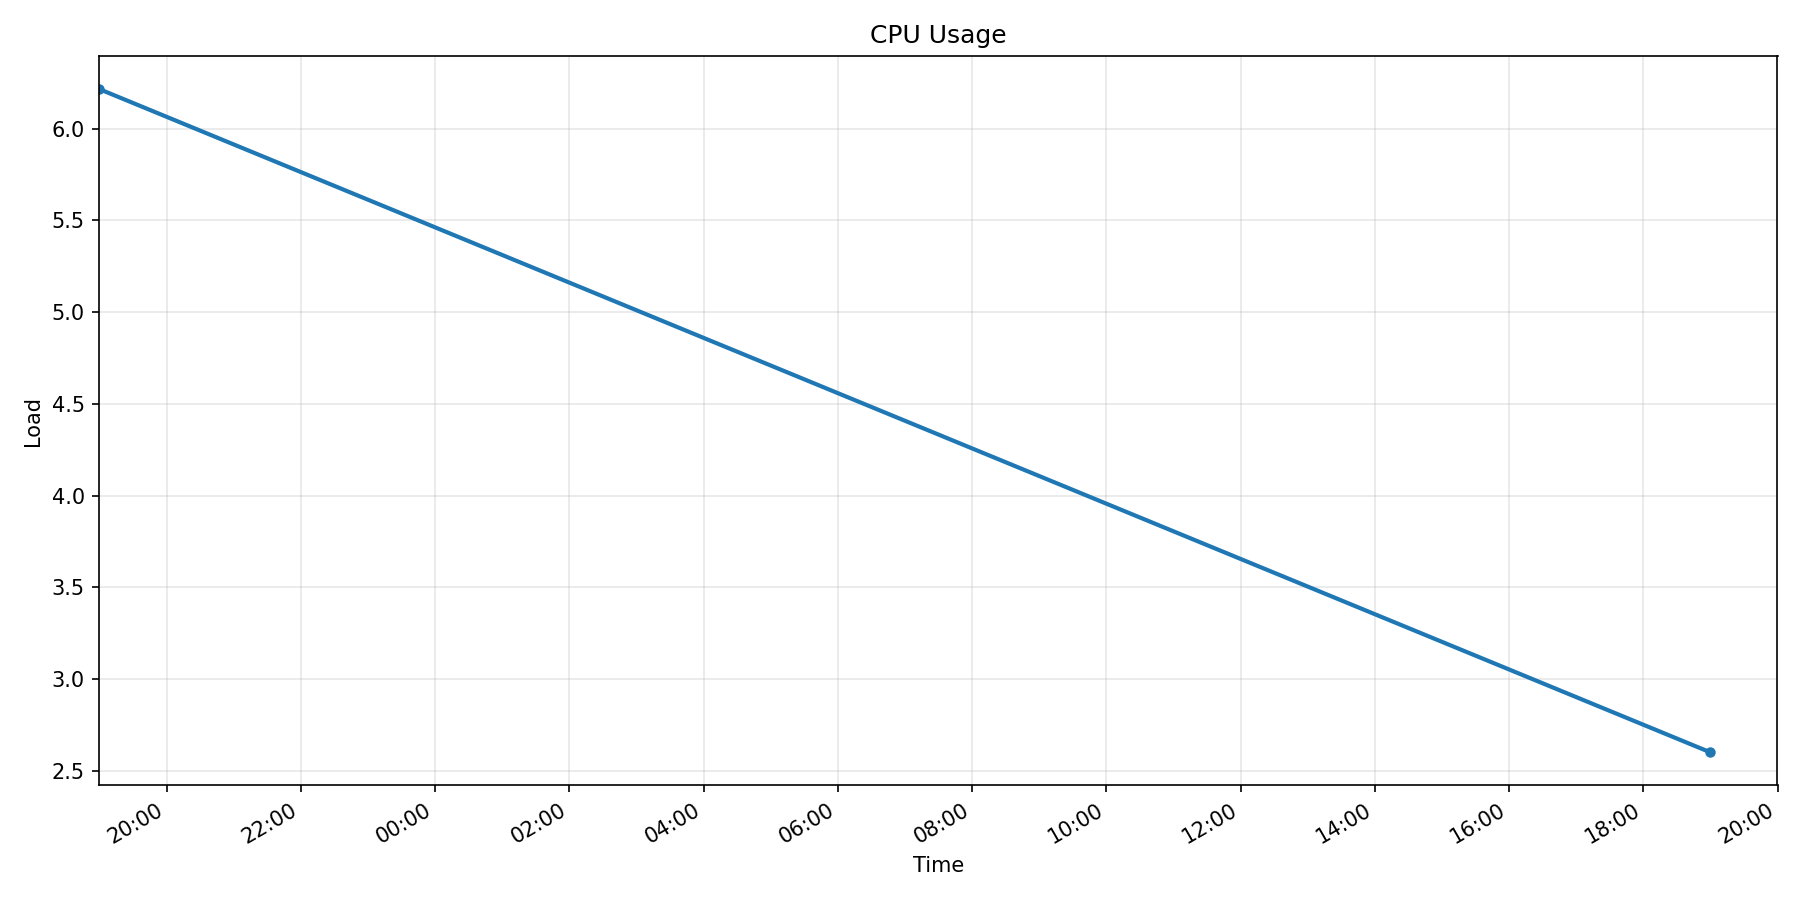
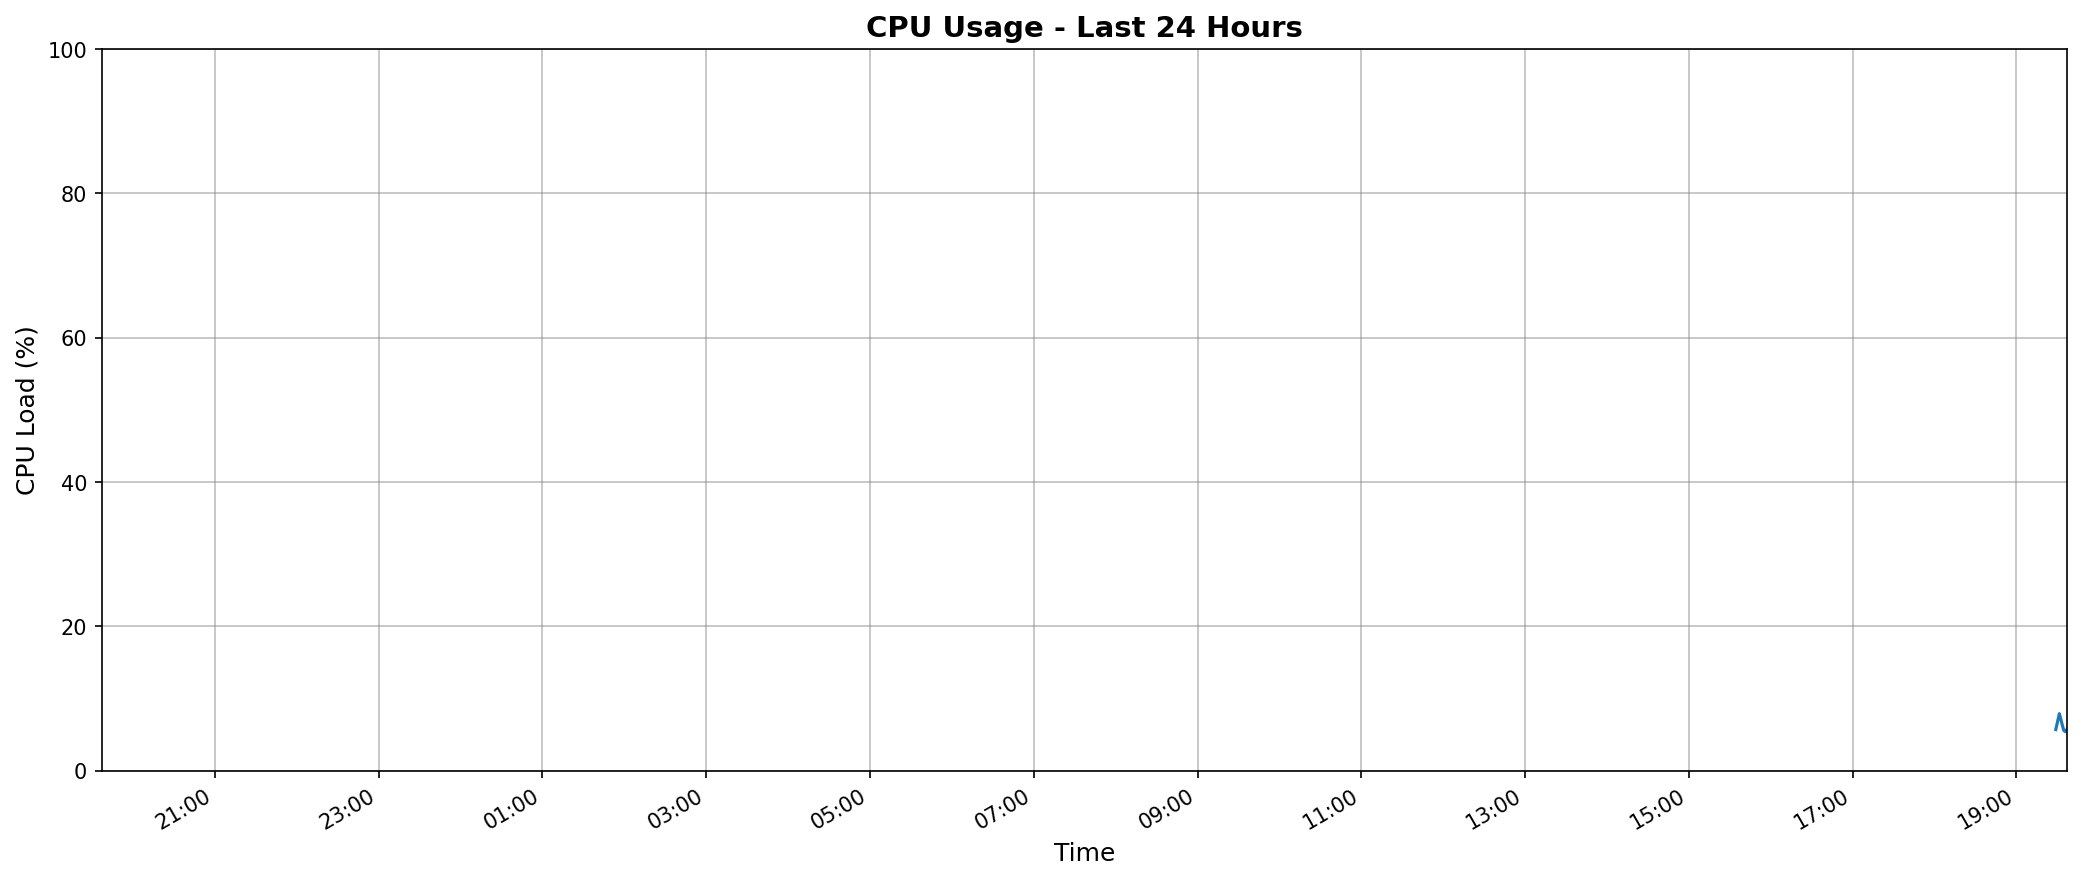
Graph code updated

diff --git a/app/graph/graph_24hr.py b/app/graph/graph_24hr.py
@@ -2,58 +2,49 @@ import matplotlib.pyplot as plt
 import matplotlib.dates as mdates
 import datetime
 import os
-from collections import defaultdict
 
 
 def graph_cpu_load(db_report):
-    raw_time = []
-    raw_load = []
-
-    for db_data in db_report:
-        raw_time.append(datetime.datetime.fromtimestamp(db_data['timestamp']))
-        raw_load.append(db_data['cpu_prcnt'])
-
-    interval_hours = 2
-    interval_seconds = interval_hours * 3600
-    buckets = defaultdict(list)
-
-    for time_point, load_point in zip(raw_time, raw_load):
-        timestamp = time_point.timestamp()
-        bucket_key = int(timestamp // interval_seconds) * interval_seconds
-        buckets[bucket_key].append(load_point)
-
-    averaged_time = []
-    averaged_load = []
-
-    for bucket_timestamp in sorted(buckets.keys()):
-        averaged_time.append(datetime.datetime.fromtimestamp(bucket_timestamp))
-        averaged_load.append(sum(buckets[bucket_timestamp]) / len(buckets[bucket_timestamp]))
-
-    plt.figure(figsize=(12, 6))
-    plt.title("CPU Usage")
-    plt.xlabel("Time")
-    plt.ylabel("Load")
-    plt.plot(averaged_time, averaged_load, linewidth=2, marker='o', markersize=4)
-
     now = datetime.datetime.now()
-    now_rounded = now.replace(minute=0, second=0, microsecond=0) + datetime.timedelta(hours=1)
-    twenty_four_hours_ago = (now - datetime.timedelta(hours=24)).replace(minute=0, second=0, microsecond=0)
+    window_start = now - datetime.timedelta(hours=24)
 
-    plt.xlim(twenty_four_hours_ago, now_rounded)
+    times = []
+    loads = []
 
-    plt.gca().xaxis.set_major_locator(mdates.HourLocator(interval=2))
-    plt.gca().xaxis.set_major_formatter(mdates.DateFormatter('%H:%M'))
+    for entry in db_report:
+        t = datetime.datetime.fromtimestamp(entry['timestamp'])
+        if t >= window_start:
+            times.append(t)
+            loads.append(entry['cpu_prcnt'])
+
+    if not times:
+        times = [window_start, now]
+        loads = [0, 0]
+
+    times, loads = zip(*sorted(zip(times, loads)))
+
+    plt.figure(figsize=(14, 6))
+    plt.title("CPU Usage - Last 24 Hours", fontsize=14, fontweight='bold')
+    plt.xlabel("Time", fontsize=12)
+    plt.ylabel("CPU Load (%)", fontsize=12)
+
+    plt.plot(times, loads, linewidth=1.5)
+
+    plt.grid(True, alpha=0.5, color='gray')
+    plt.ylim(0, 100)
+
+    ax = plt.gca()
+    ax.set_xlim(window_start, now)
+
+    ax.xaxis.set_major_locator(mdates.HourLocator(interval=2))
+    ax.xaxis.set_major_formatter(mdates.DateFormatter('%H:%M'))
 
     plt.gcf().autofmt_xdate()
-    plt.grid(True, alpha=0.3)
     plt.tight_layout()
 
-    current_dir = os.path.dirname(os.path.abspath(__file__))
-    graph_dir = current_dir
-    os.makedirs(graph_dir, exist_ok=True)
+    script_dir = os.path.dirname(os.path.abspath(__file__))
+    save_path = os.path.join(script_dir, 'cpu_load.png')
 
-    save_path = os.path.join(graph_dir, 'cpu_load.png')
     print(f"Saving graph to: {save_path}")
-
-    plt.savefig(save_path, dpi=150)
+    plt.savefig(save_path, dpi=150, bbox_inches='tight')
     plt.close()
